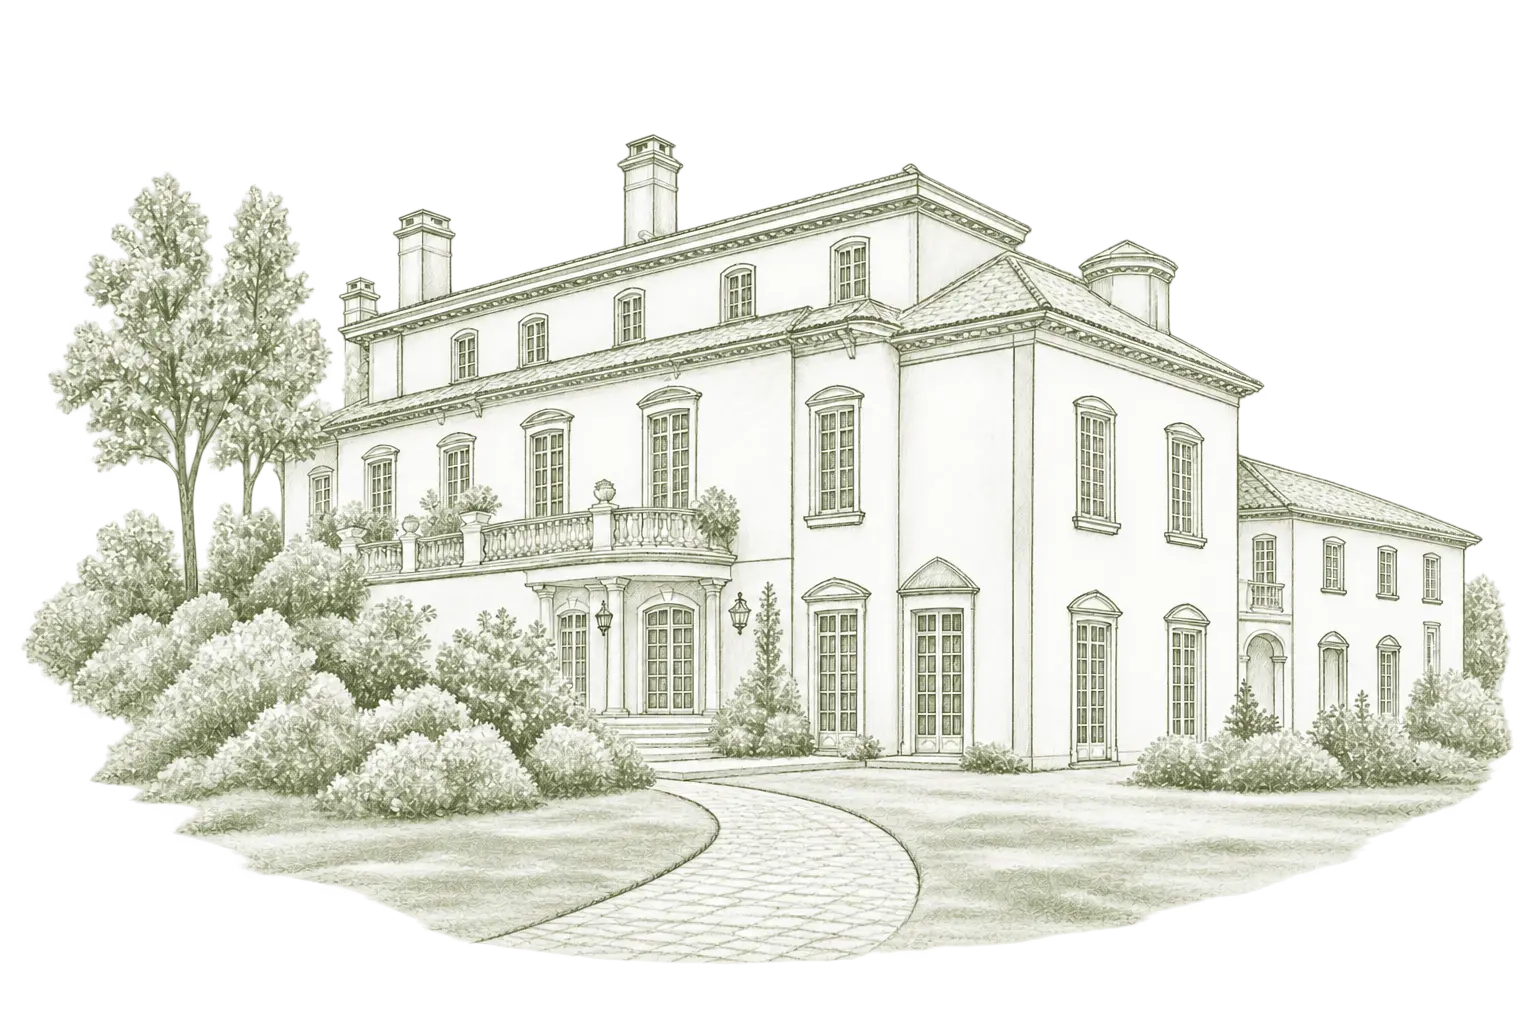
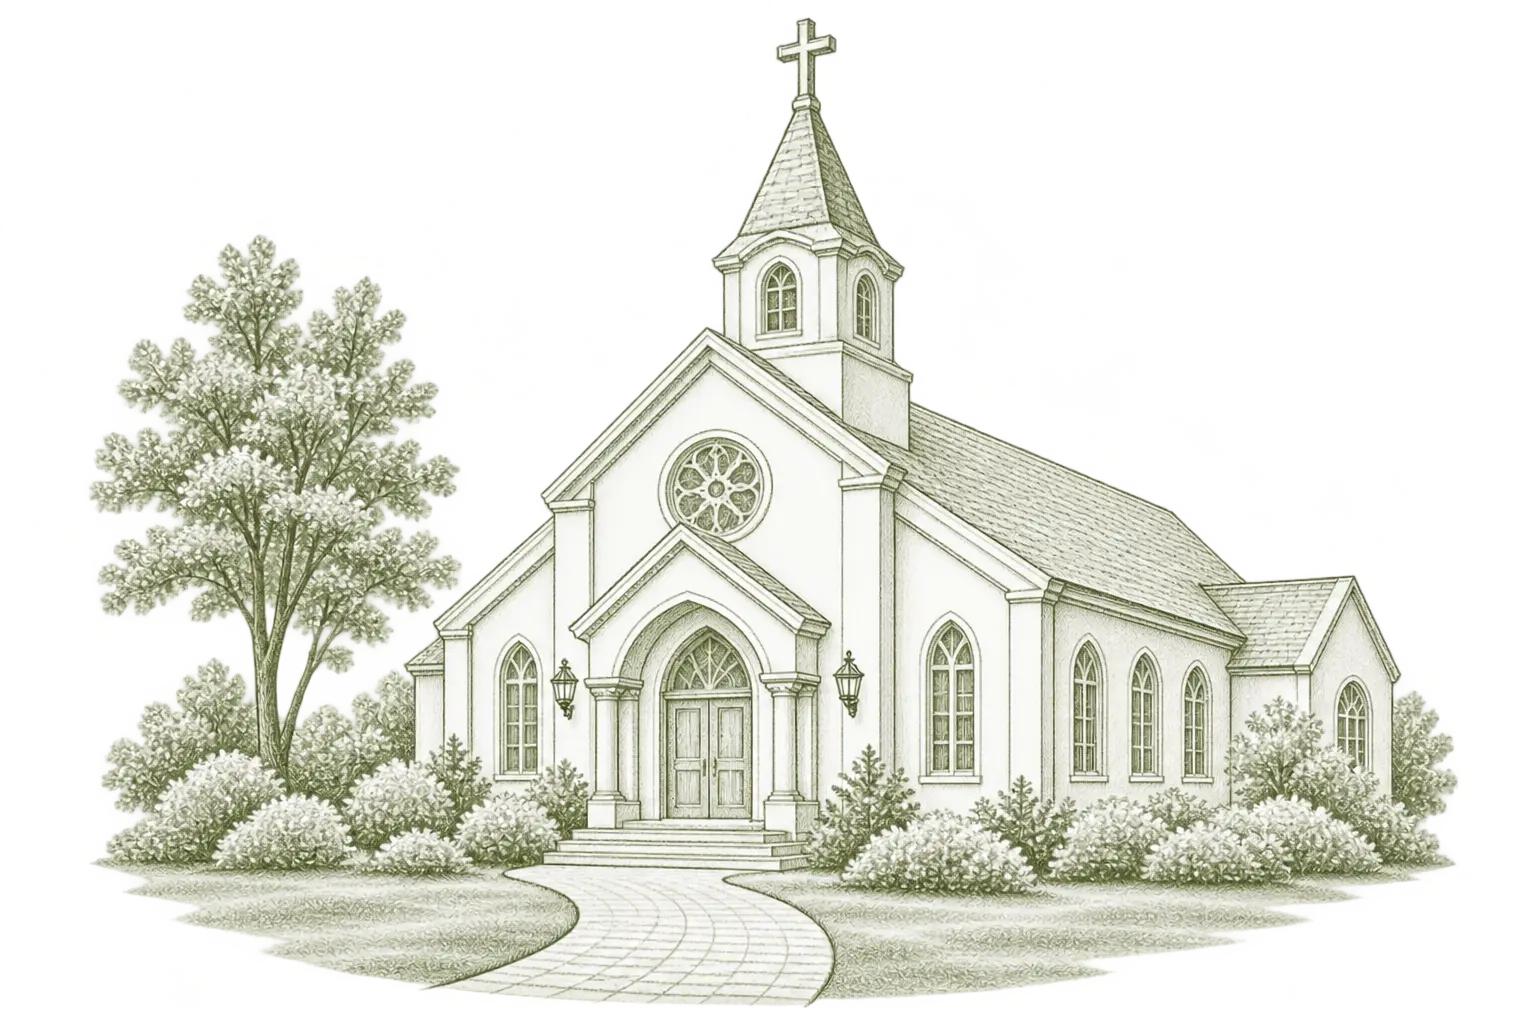
feat: images

diff --git a/index.html b/index.html
@@ -5,15 +5,35 @@
     <meta name="viewport" content="width=device-width, initial-scale=1, maximum-scale=1, user-scalable=no, viewport-fit=cover" />
     <meta name="color-scheme" content="light" />
     <meta name="theme-color" content="#6b7362" />
-    <title>Wedding Invitation</title>
+    <title>Anmol &amp; Rojina | Wedding Invitation</title>
+    <meta name="description" content="Sunday, Mangsir 27, 2083. You are cordially invited." />
+
+    <link rel="icon" href="favicon.ico" sizes="48x48" />
+    <link rel="icon" type="image/png" sizes="32x32" href="assets/icons/favicon-32.png" />
+    <link rel="icon" type="image/png" sizes="192x192" href="assets/icons/icon-192.png" />
+    <link rel="apple-touch-icon" href="assets/icons/apple-touch-icon.png" />
 
     <!-- Keeps this private invitation out of search results, previews and archives. -->
     <meta name="robots" content="noindex, nofollow, noarchive, nosnippet, noimageindex, noai, noimageai" />
 
     <!-- The preview shown when the link is shared on WhatsApp, Facebook etc.
-         Edit these two lines by hand: link previews cannot read js/config.js. -->
-    <meta property="og:title" content="Anmol & Rojina are getting married" />
+         Edit these by hand: link previews cannot read js/config.js. The two addresses
+         must be the full site address, so update them if the site moves to a new domain. -->
+    <meta property="og:type" content="website" />
+    <meta property="og:site_name" content="Anmol &amp; Rojina" />
+    <meta property="og:title" content="Anmol &amp; Rojina are getting married" />
     <meta property="og:description" content="Sunday, Mangsir 27, 2083. You are cordially invited." />
+    <meta property="og:url" content="https://wedding-invitation-anmol-rojina.vercel.app/" />
+    <meta property="og:image" content="https://wedding-invitation-anmol-rojina.vercel.app/assets/art/share-image.jpg" />
+    <meta property="og:image:secure_url" content="https://wedding-invitation-anmol-rojina.vercel.app/assets/art/share-image.jpg" />
+    <meta property="og:image:type" content="image/jpeg" />
+    <meta property="og:image:width" content="1200" />
+    <meta property="og:image:height" content="630" />
+    <meta property="og:image:alt" content="A sage green envelope with flowers and a gold wax seal, with the names Anmol and Rojina above it" />
+    <meta name="twitter:card" content="summary_large_image" />
+    <meta name="twitter:title" content="Anmol &amp; Rojina are getting married" />
+    <meta name="twitter:description" content="Sunday, Mangsir 27, 2083. You are cordially invited." />
+    <meta name="twitter:image" content="https://wedding-invitation-anmol-rojina.vercel.app/assets/art/share-image.jpg" />
 
     <link rel="preconnect" href="https://fonts.googleapis.com" />
     <link rel="preconnect" href="https://fonts.gstatic.com" crossorigin />

diff --git a/README.md b/README.md
@@ -12,11 +12,7 @@ To preview it, double-click `index.html`.
 
 **Photos:** copy your pictures into `assets/photos`, then list them in `coverPhoto`, `heroPhoto` and `album` in the config file, for example `"assets/photos/our-photo.jpg"`. Keep each photo under about 500 KB so the page loads quickly on phones.
 
-**Link preview:** the text shown when the link is shared on WhatsApp or Facebook is near the top of `index.html`. Change it by hand. To add a preview picture once the site is live, put this line beside the others, using your own site's full address:
-
-```html
-<meta property="og:image" content="https://your-site.vercel.app/assets/photos/our-photo.jpg" />
-```
+**Link preview:** the text and image shown when the link is shared on WhatsApp or Facebook are near the top of `index.html`. Change them by hand. The image is `assets/art/share-image.jpg` (1200 x 630). If the site moves to a new address, update `og:url`, `og:image` and `twitter:image` there too, then refresh the preview in the [Facebook Sharing Debugger](https://developers.facebook.com/tools/debug/).
 
 ## 2. Connect the guest book and RSVP (free)
 
